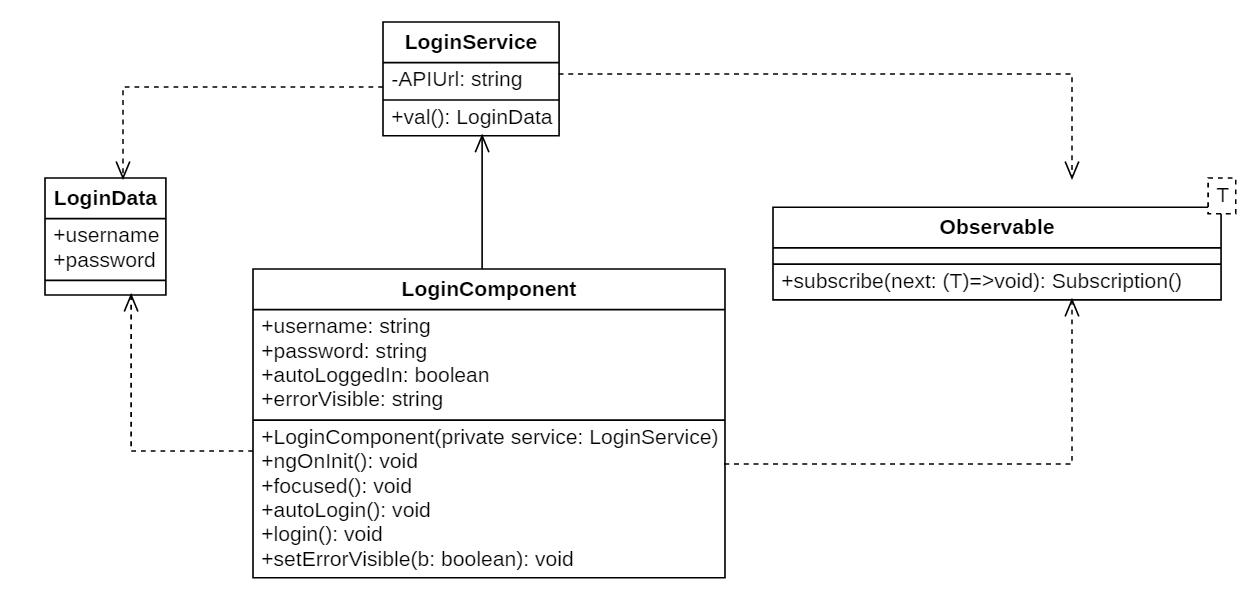
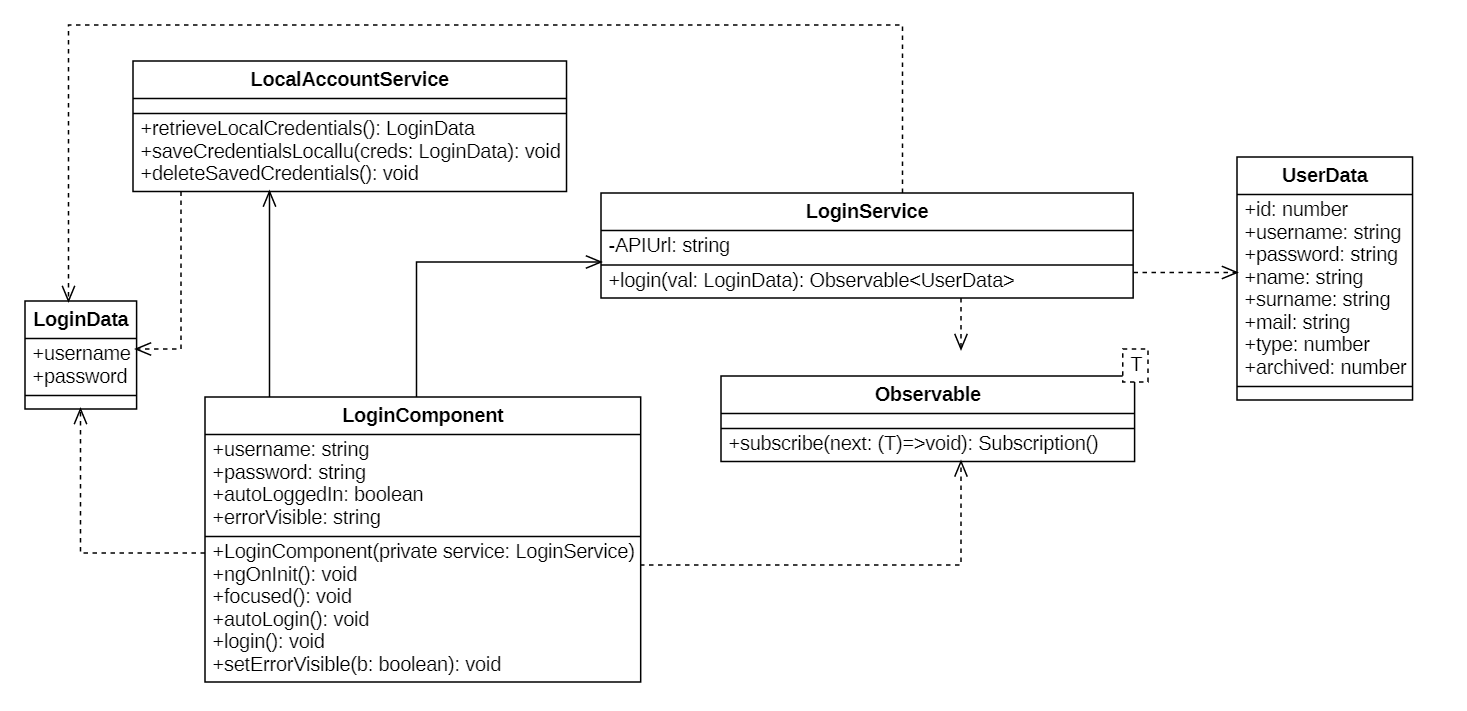
aggiunti attributi e metodi credenziali e login

diff --git a/esterni/ManualeManutentore/res/sections/Web-appamministratori.tex b/esterni/ManualeManutentore/res/sections/Web-appamministratori.tex
@@ -96,6 +96,66 @@ I diagrammi seguenti sono scritti secondo la sintassi UML. Le descrizioni testua
 	\caption{Diagramma delle classi per il login}
 	\label{fig:DiagrammaClassiLogin}
 \end{figure}
+
+\paragraph{Classi}
+
+\subparagraph{LoginComponent}
+\textbf{Attributi}
+\begin{itemize}
+	\item \texttt{+ username: string}
+	\item \texttt{+ password: string}
+	\item \texttt{+ autoLoggedIn: boolean}
+	\item \texttt{+ errorVisible: string}
+\end{itemize}
+\textbf{Metodi}
+\begin{itemize}
+	\item \texttt{+ constructor(private loginService: LoginService, private localAccountService: LocalAccountService)}
+	\item \texttt{+ ngOnInit(): void}
+	\item \texttt{+ focused(): void}
+	\item \texttt{+ autoLogin(): void}
+	\item \texttt{+ login(): void}
+	\item \texttt{+ setErrorVisible(b: boolean): void}
+\end{itemize}
+\subparagraph{LoginService}
+\textbf{Attributi}
+\begin{itemize}
+	\item \texttt{- APIUrl: string}
+\end{itemize}
+\textbf{Metodi}
+\begin{itemize}
+	\item \texttt{+ login(val: LoginData): Observable<UserData>}
+\end{itemize}
+\subparagraph{LocalAccountService}
+\textbf{Metodi}
+\begin{itemize}
+	\item \texttt{+ retrieveLocalCredentials(): LoginData}
+	\item \texttt{+ saveCredentialsLocally(creds: LoginData): void}
+	\item \texttt{+ deleteSavedCredentials(): void}
+\end{itemize}
+\subparagraph{LoginData}
+\textbf{Attributi}
+\begin{itemize}
+	\item \texttt{+ username: string}
+	\item \texttt{+ password: string}
+\end{itemize}
+\subparagraph{UserData}
+\textbf{Attributi}
+\begin{itemize}
+	\item \texttt{+ id: number}
+	\item \texttt{+ username: string}
+	\item \texttt{+ password: string}
+	\item \texttt{+ name: string}
+	\item \texttt{+ surname: string}
+	\item \texttt{+ mail: string}
+	\item \texttt{+ type: number}
+	\item \texttt{+ archived: number}
+\end{itemize}
+\subparagraph{Observable}
+\textbf{Metodi}
+\begin{itemize}
+	\item \texttt{+ subscribe(next: (T)=>void): Subscription}
+\end{itemize}
+
 \subsubsection{Gestione stanze e postazioni}
 \begin{figure}[H]
 	\centering
@@ -308,6 +368,76 @@ Classe fornita dalla libreria Rxjs. Viene utilizzata per effettuare chiamate asi
 	\caption{Diagramma delle classi per la gestione delle credenziali}
 	\label{fig:DiagrammaClassiCredenziali}
 \end{figure}
+
+\paragraph{Classi}
+\subparagraph{ShowCredentialComponent}
+\textbf{Attributi}
+\begin{itemize}
+	\item \texttt{+ CredentialList: Array<UserData>}
+	\item \texttt{+ addEditCredential: UserData}
+	\item \texttt{+ userAction: string}
+\end{itemize}
+\textbf{Metodi}
+\begin{itemize}
+	\item \texttt{+ ngOnInit(): void}
+	\item \texttt{+ addClick(): void}
+	\item \texttt{+ editClick(credential: UserData): void}
+	\item \texttt{+ closeClick(): void}
+	\item \texttt{+ refreshCredentialsList(): void}
+	\item \texttt{+ deleteClick(item: UserData): void}
+\end{itemize}
+\subparagraph{AddEditCredentialComponent}
+\textbf{Attributi}
+\begin{itemize}
+	\item \texttt{+ id: number}
+	\item \texttt{+ username: string}
+	\item \texttt{+ password: string}
+	\item \texttt{+ name: string}
+	\item \texttt{+ surname: string}
+	\item \texttt{+ mail: string}
+	\item \texttt{+ type: number}
+	\item \texttt{+ archived: number}
+	\item \texttt{+ action: string}
+	\item \texttt{+ credential: UserData}
+\end{itemize}
+\textbf{Metodi}
+\begin{itemize}
+	\item \texttt{+ ngOnChanges(): void}
+	\item \texttt{+ getCredentialFromLocalValues(): UserData}
+	\item \texttt{+ takeAction(): void}
+	\item \texttt{+ addCredential(): void}
+	\item \texttt{+ editCredential(): void}
+\end{itemize}
+\subparagraph{UserService}
+\textbf{Attributi}
+\begin{itemize}
+	\item \texttt{- APIUrl: string}
+\end{itemize}
+\textbf{Metodi}
+\begin{itemize}
+	\item \texttt{+ getUserList(): Observable<Array<UserData>>}
+	\item \texttt{+ addUser(val: UserData): Observable<string>}
+	\item \texttt{+ deleteUser(val: number): Observable<string>}
+	\item \texttt{+ modifyUser(val: UserData): Observable<string>}
+\end{itemize}
+\subparagraph{UserData}
+\textbf{Attributi}
+\begin{itemize}
+	\item \texttt{+ id: number}
+	\item \texttt{+ username: string}
+	\item \texttt{+ password: string}
+	\item \texttt{+ name: string}
+	\item \texttt{+ surname: string}
+	\item \texttt{+ mail: string}
+	\item \texttt{+ type: number}
+	\item \texttt{+ archived: number}
+\end{itemize}
+\subparagraph{Observable}
+\textbf{Metodi}
+\begin{itemize}
+	\item \texttt{+ subscribe(next: (T)=>void): Subscription}
+\end{itemize}
+
 \subsubsection{Sezione report}
 \subsubsection{Sezione notifiche}
 \subsection{Diagrammi di sequenza}
